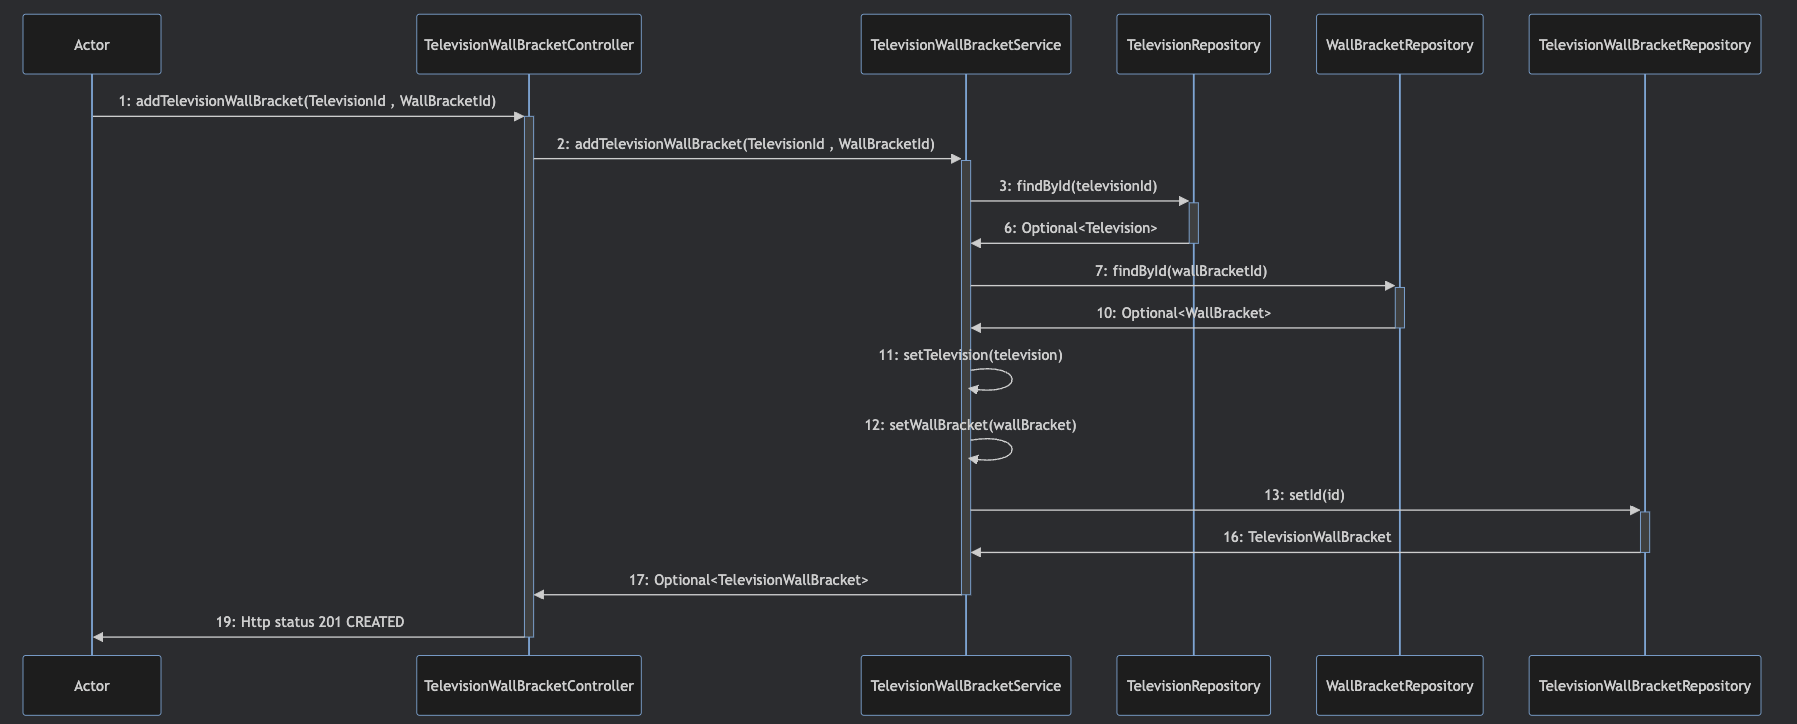
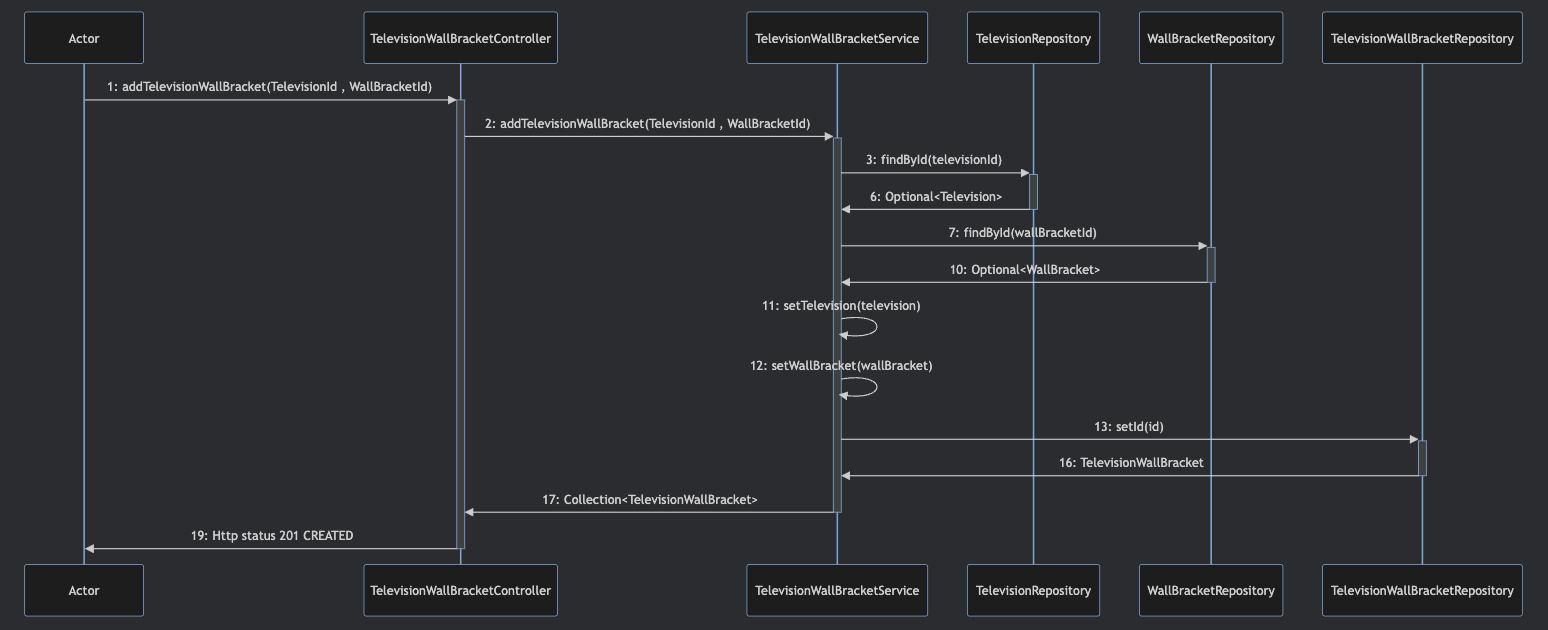
update wallBracketAanTelevisionToevoegen diagram

Changed region(s): [[0.031, 0.0, 0.9922, 0.9952], [0.0, 0.9349, 0.093, 0.9952], [0.031, 0.0, 0.093, 0.0302]]

diff --git a/docs/sequence-diagrams/WallBracketAanTelevisionToevoegen.md b/docs/sequence-diagrams/WallBracketAanTelevisionToevoegen.md
@@ -19,6 +19,6 @@ participant TelevisionWallBracketRepository
     TelevisionWallBracketService->>TelevisionWallBracketService: 12: setWallBracket(wallBracket)
     TelevisionWallBracketService->>+TelevisionWallBracketRepository: 13: setId(id)
     TelevisionWallBracketRepository->>-TelevisionWallBracketService: 16: TelevisionWallBracket
-    TelevisionWallBracketService->>-TelevisionWallBracketController: 17: Optional<TelevisionWallBracket>
+    TelevisionWallBracketService->>-TelevisionWallBracketController: 17: Collection<TelevisionWallBracket>
     TelevisionWallBracketController->>-Client:  19: Http status 201 CREATED
 ````
